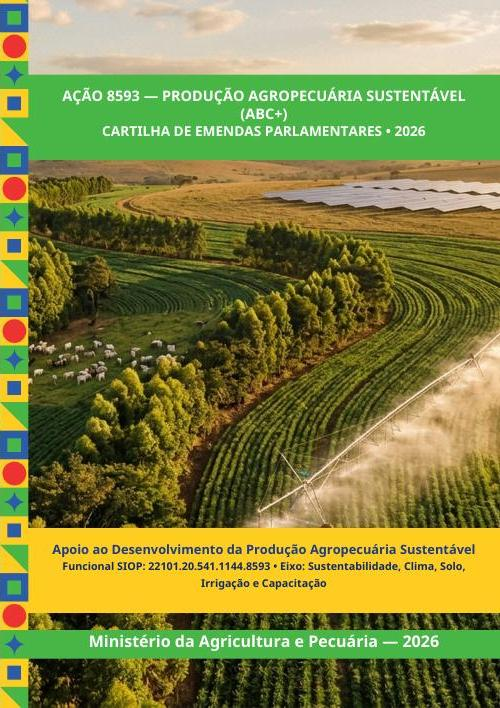
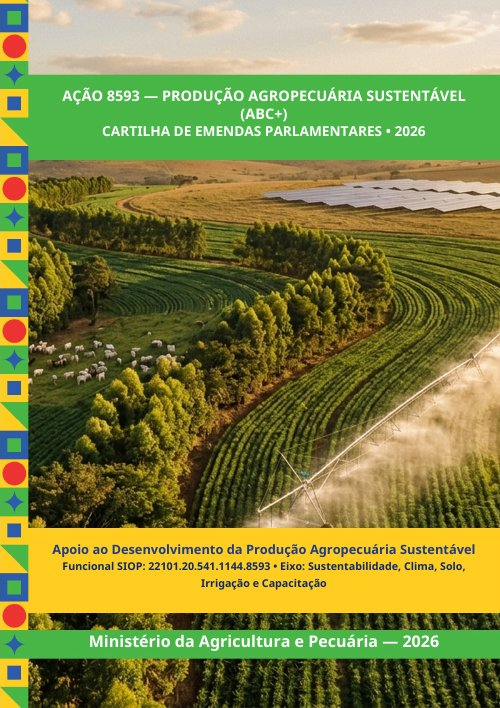
Portfólio SDR 2026 e cartilha 8593 corrigidos; 8593 com o PO 0000 na página Ações SDR
Claude-Session: https://claude.ai/code/session_01NthMbWdmVFEibmh8kZEHRm

diff --git a/docs/index.html b/docs/index.html
@@ -9727,7 +9727,7 @@ const PORT_MAPA = [
 // [código, nome, resumo (eixo), POs, unidade, financia capacitação e eventos]
 const PORT_ACOES = [
   ['215A', 'Desenvolvimento das Cadeias Produtivas da Agropecuária', 'Fomento produtivo, eventos e agregação de valor', '0000 · 0004 · 0005 · 0006 · 0007 · 0008', 'SDR · Depto. de Desenvolvimento das Cadeias Produtivas', 1],
-  ['8593', 'Apoio ao Desenvolvimento da Produção Agropecuária Sustentável', 'Plano ABC+, solo, água, irrigação e capacitação', '0001 · 0003 · 0004 · 0006', 'SDR · Depto. de Produção Sustentável e Irrigação', 1],
+  ['8593', 'Apoio ao Desenvolvimento da Produção Agropecuária Sustentável', 'Plano ABC+, solo, água, irrigação e capacitação', '0000 · 0001 · 0003 · 0004 · 0006', 'SDR · Depto. de Produção Sustentável e Irrigação', 1],
   ['214Z', 'Fomento à Tecnologia Agropecuária e Recursos Genéticos', 'Inovação, bioinsumos, AgTechs e conectividade rural', '000C · 0001 · 0003 · 0005', 'SDR', 1],
   ['00PN', 'Cooperação com a OCDE (país não membro)', 'Cota do Brasil nos Códigos de Tratores da OCDE · não financia eventos', '0003', 'SCRI / SDR', 0],
   ['8622', 'Promoção do Cooperativismo, Associativismo e Agroindústria', 'Cooperativismo, gestão, inclusão produtiva e eventos', '0000 · 000D', 'SDR', 1],
